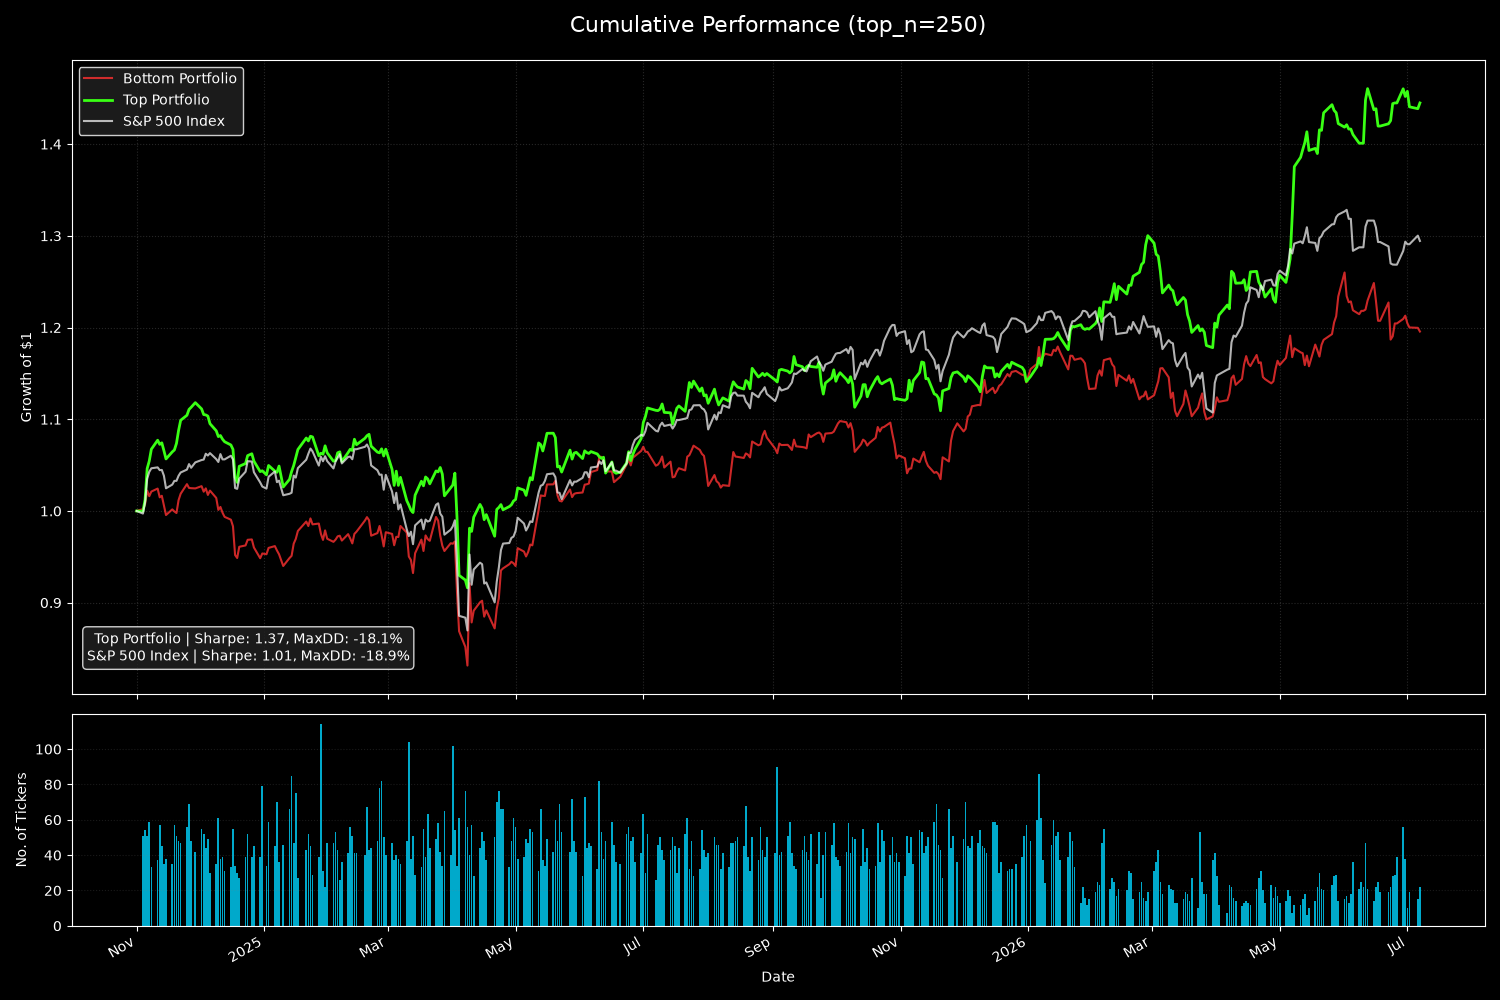
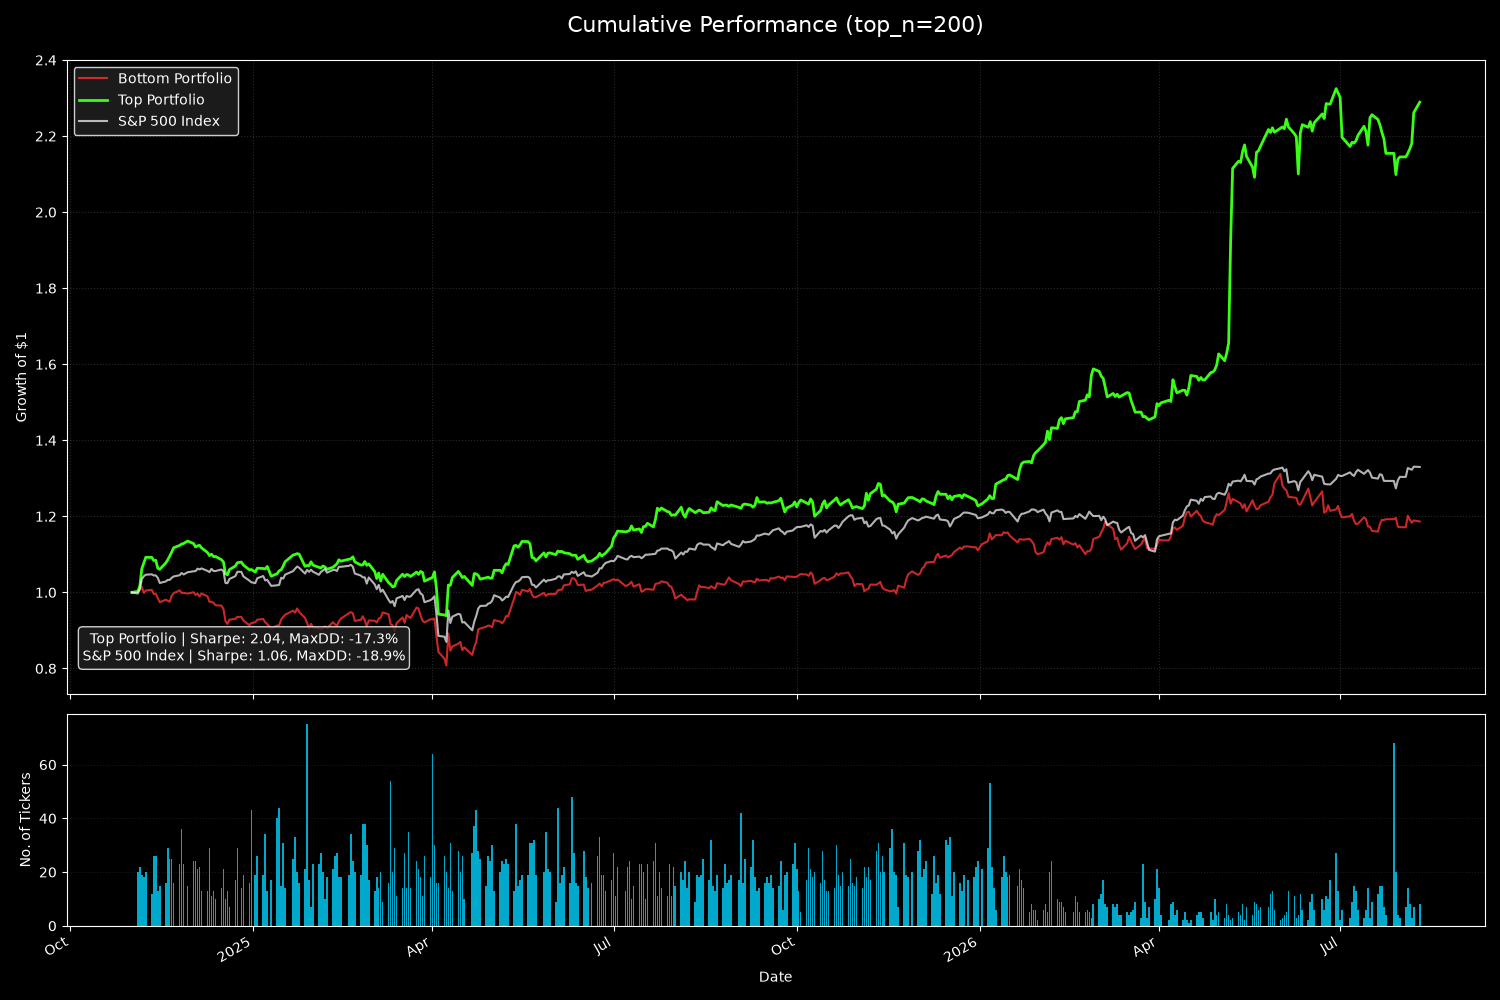
Updated Python Scripts To Fix Holiday Warnings

diff --git a/dataanalysis.py b/dataanalysis.py
@@ -6,7 +6,7 @@ from itertools import tee
 from pathlib import Path
 from typing import List, Tuple, Optional
 
-import holidays
+from holidays import financial_holidays
 import numpy as np
 import pandas as pd
 import requests
@@ -37,7 +37,7 @@ def parse_args():
 
 
 def get_date_pairs(start: str, end: str) -> List[Tuple[datetime, datetime]]:
-    us_holidays = holidays.financial_holidays("NYSE")
+    us_holidays = financial_holidays("NYSE")
     daterange = pd.bdate_range(start=start, end=end)
     daterange = [c for c in daterange if c not in us_holidays]
     a1, a2 = tee(daterange)

diff --git a/profitanalysis.py b/profitanalysis.py
@@ -4,7 +4,7 @@ from datetime import datetime, timedelta
 from itertools import tee
 from pathlib import Path
 
-import holidays
+from holidays import financial_holidays
 import matplotlib.dates as mdates
 import matplotlib.pyplot as plt
 import numpy as np
@@ -26,7 +26,7 @@ def parse_args():
 
 
 def get_date_pairs(start, end):
-    us_holidays = holidays.financial_holidays("NYSE")
+    us_holidays = financial_holidays("NYSE")
     daterange = pd.bdate_range(start=start, end=end)
     daterange = [c for c in daterange if c not in us_holidays]
     if len(daterange) < 2:
